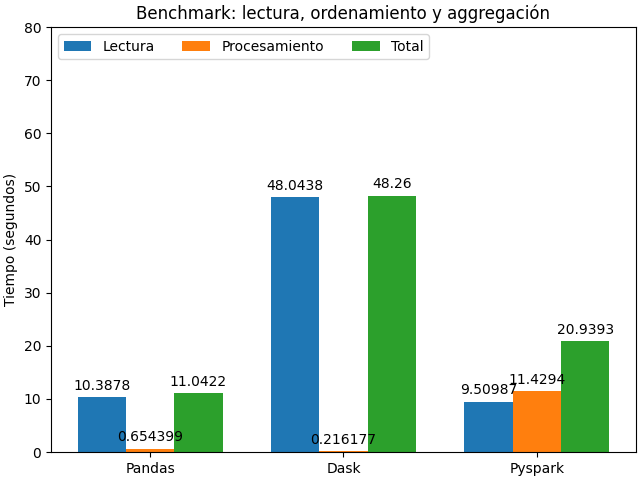
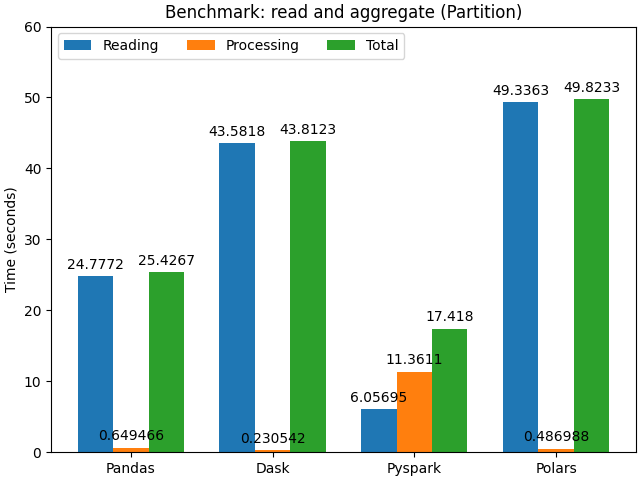
implement polars read and aggregate add polars to benchmark update benchmark resources

diff --git a/challenge/read_and_aggregate/benchmark.py b/challenge/read_and_aggregate/benchmark.py
@@ -1,22 +1,24 @@
 import matplotlib.pyplot as plt
 import numpy as np
 
-from . import main_dask, main_pandas, main_pyspark
+from . import main_dask, main_pandas, main_polars, main_pyspark
 from .common import Processor
 
-GCS_PATH = "gs://single_file"
-FILENAME = "single.png"
-FRAMEWORKS = ("Pandas", "Dask", "Pyspark")
+GCS_PATH = "gs://single_file/"
+OUTPUT_FILENAME = "single.png"
+FRAMEWORKS = ("Pandas", "Dask", "Pyspark", "Polars")
 
 
 def main() -> None:
     pandas_results = get_results(main_pandas.PandasProcessor, path=GCS_PATH)
     dask_results = get_results(main_dask.DaskProcessor, path=GCS_PATH)
     pyspark_results = get_results(main_pyspark.SparkProcessor, path=GCS_PATH)
+    polars_results = get_results(main_polars.PolarsProcessor, path=GCS_PATH)
 
-    keys = ("Reading", "Processing", "Total")
-    values = zip(pandas_results, dask_results, pyspark_results)
-    framework_times = dict(zip(keys, values))
+    # Labels and measurements
+    labels = ("Reading", "Processing", "Total")
+    framework_results = zip(pandas_results, dask_results, pyspark_results, polars_results)
+    framework_times = zip(labels, framework_results)
 
     # Label locations
     x = np.arange(len(FRAMEWORKS))
@@ -24,20 +26,20 @@ def main() -> None:
     multiplier = 0
     fig, ax = plt.subplots(layout="constrained")
 
-    for attribute, measurement in framework_times.items():
+    for label, measurements in framework_times:
         offset = width * multiplier
-        rects = ax.bar(x + offset, measurement, width, label=attribute)
+        rects = ax.bar(x + offset, measurements, width, label=label)
         ax.bar_label(rects, padding=3)
         multiplier += 1
 
     # Add some text for labels, title and custom x-axis tick labels, etc.
     ax.set_ylabel("Time (seconds)")
-    ax.set_title("Benchmark: read and aggregat")
+    ax.set_title("Benchmark: read and aggregate (Single)")
     ax.set_xticks(x + width, FRAMEWORKS)
     ax.legend(loc="upper left", ncols=3)
-    ax.set_ylim(0, 80)
+    ax.set_ylim(0, 20)
 
-    plt.savefig(FILENAME)
+    plt.savefig(OUTPUT_FILENAME)
 
 
 def get_results(processor_class: type[Processor], path: str) -> tuple[float, float, float]:

diff --git a/challenge/read_and_aggregate/main_polars.py b/challenge/read_and_aggregate/main_polars.py
@@ -1,0 +1,39 @@
+import logging
+
+import polars as pl
+
+from .common import Processor, main
+
+logging.basicConfig(level=logging.INFO)
+logger = logging.getLogger("PolarsProcessor")
+
+
+class PolarsProcessor(Processor):
+    def read(self) -> pl.DataFrame:
+        logger.info("Reading files...")
+        df = pl.read_parquet(self.path)
+        logger.info("Reading completed")
+        return df
+
+    def process(self, data: pl.DataFrame) -> None:
+        lazy_df = data.lazy()
+        total_sales_by_category = (
+            lazy_df.group_by("categoria_de_producto")
+            .agg(pl.col("cantidad_de_venta").sum().alias("total_sales"))
+            .collect()
+        )
+        average_sales_by_region = (
+            lazy_df.group_by("region_de_venta")
+            .agg(pl.col("cantidad_de_venta").mean().alias("average_sales"))
+            .collect()
+        )
+        logger.info("Information processed")
+        logger.info(f"Total sales by product category:\n{total_sales_by_category}")
+        logger.info(f"Average sales by region:\n{average_sales_by_region}")
+
+    def cleanup(self) -> None:
+        pass
+
+
+if __name__ == "__main__":
+    main(PolarsProcessor)

diff --git a/challenge/read_and_aggregate/common.py b/challenge/read_and_aggregate/common.py
@@ -18,8 +18,8 @@ def execution_time(fn: Callable[[], T]) -> tuple[float, T]:
 class Processor:
     def __init__(self, path: str) -> None:
         self.path = path
-        self.read_time
-        self.process_time
+        self.read_time = 0.0
+        self.process_time = 0.0
 
     def run(self) -> None:
         self.read_time, data = execution_time(self.read)
